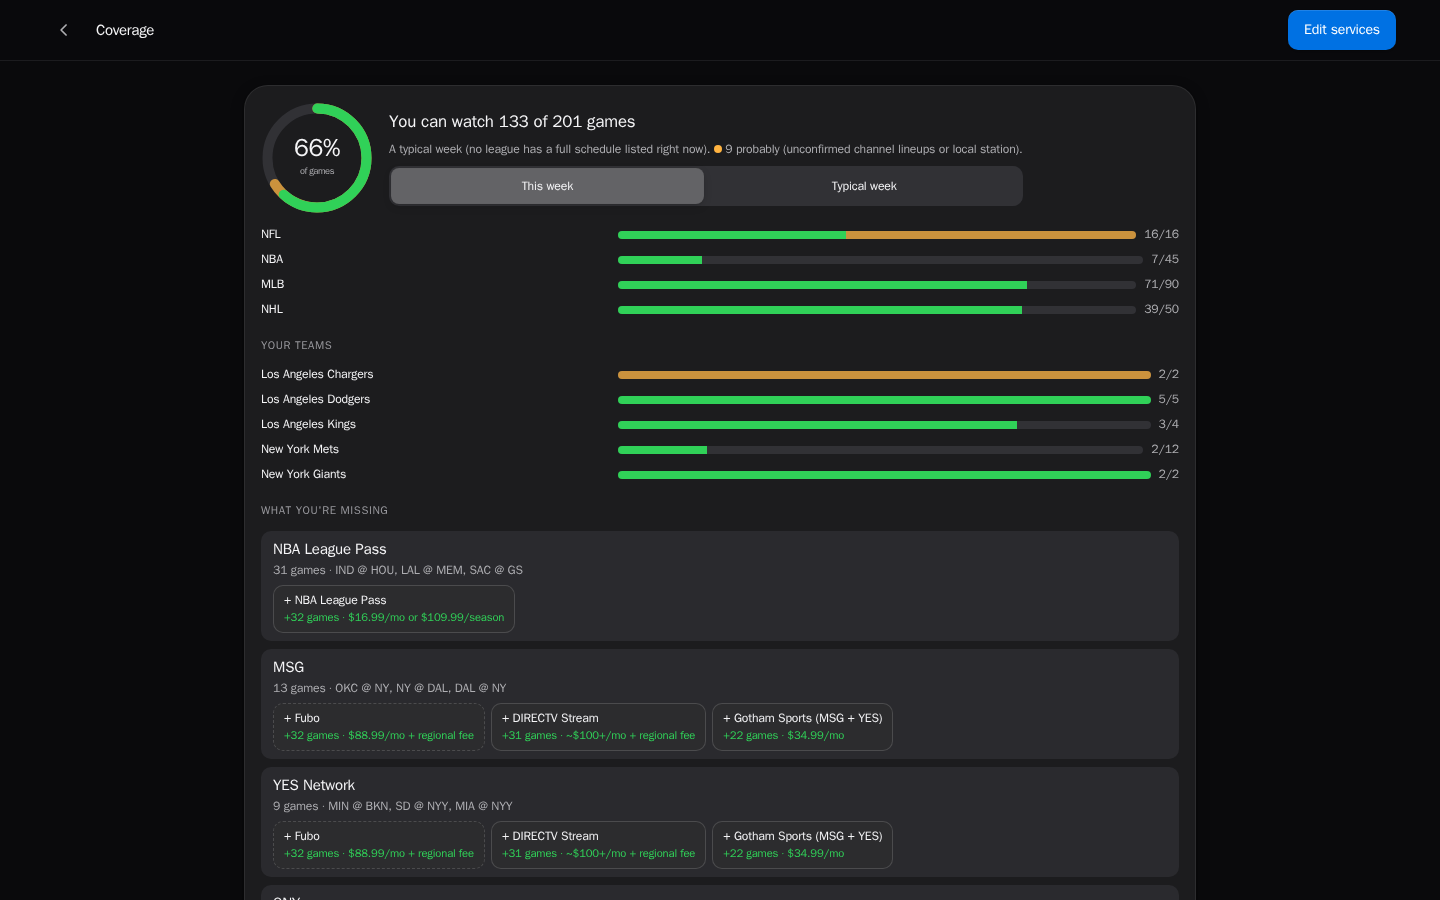
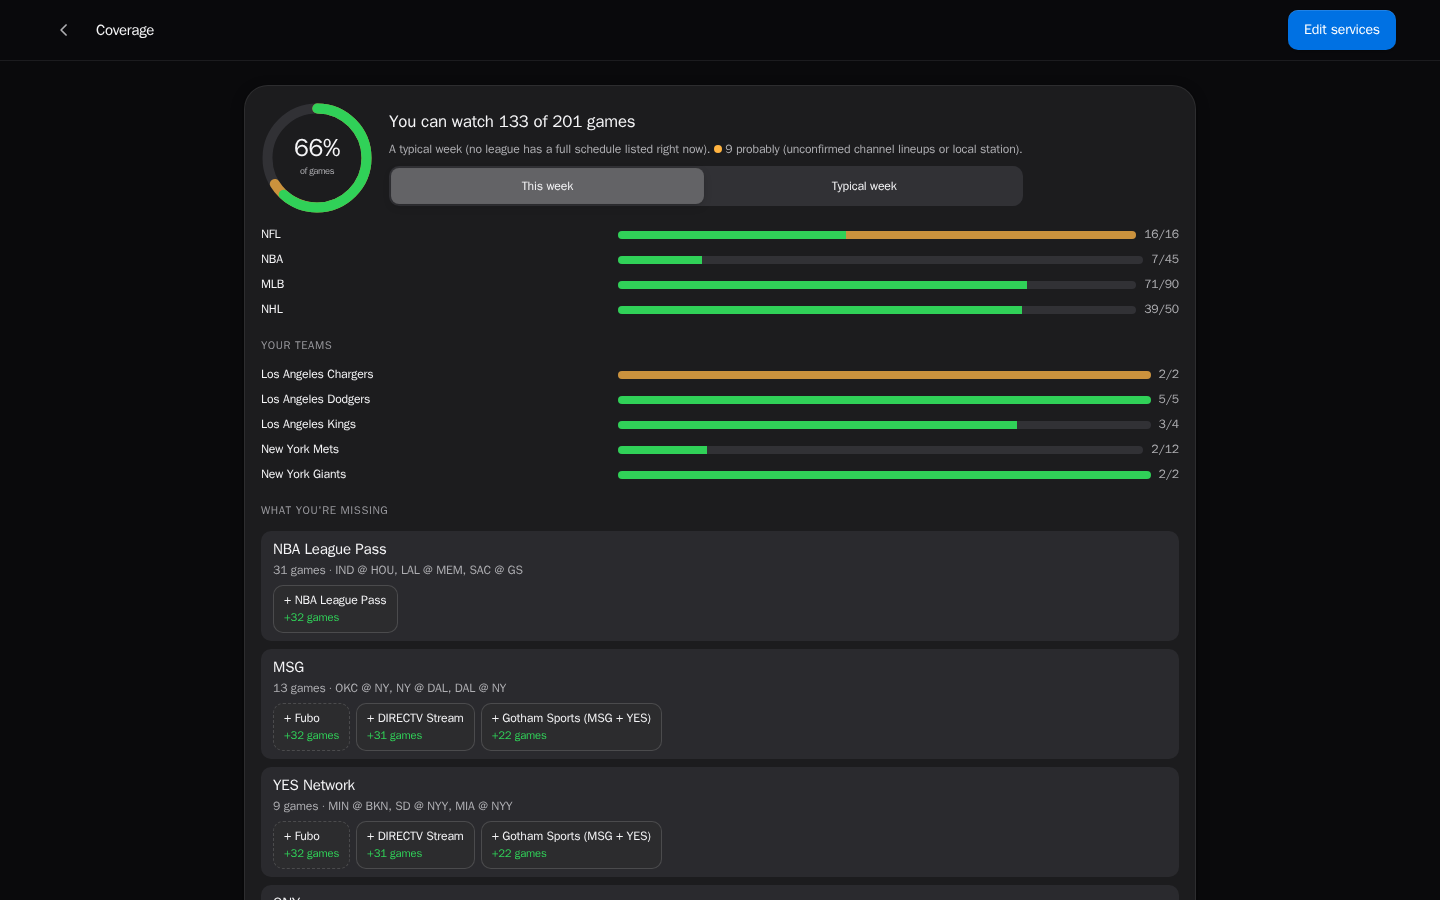
Release 0.2.0: fresh screenshots, badges, code of conduct
Screenshots retaken against a fake TV that reports real installed apps.

Changed region(s): [[0.25, 0.7778, 0.625, 0.84], [0.25, 0.9022, 0.625, 0.9644], [0.25, 0.6844, 0.3438, 0.7156]]

diff --git a/web/setup/Setup.tsx b/web/setup/Setup.tsx
@@ -21,7 +21,7 @@ const STEPS: { id: StepId; title: string; lead: string }[] = [
   { id: "teams", title: "Your teams", lead: "Favorites go first, and you'll see how many of their games you can watch." },
   { id: "services", title: "Your services", lead: "Tick what you pay for. Coverage updates as you go, and shows what each service would add." },
   { id: "local", title: "Local teams", lead: "How you watch your local teams' games, which aren't on national TV." },
-  { id: "tvs", title: "Your TVs", lead: "Connect the Fire TV or Google TV this server will control." },
+  { id: "tvs", title: "Your TVs", lead: "Connect the TVs this server will control: Fire TV, Google TV or another Android TV." },
   { id: "extras", title: "Extras", lead: "Optional: Plex Live TV for antenna households, and ESPN game links." },
   { id: "done", title: "Done", lead: "Here's what you can watch." },
 ];

diff --git a/lib/catalog/subscriptions.ts b/lib/catalog/subscriptions.ts
@@ -110,7 +110,7 @@ export const SUBSCRIPTIONS: SubscriptionDef[] = [
     addOns: [{ id: "sports_extra", name: "Sports Extra", grants: ["espnu", "secn", "accn", "fs2", "btn", "nbatv", "mlbnet", "nhlnet"], maybe: ["nfl_redzone"] }],
     apps: ["sling"],
     unlocks: [{ subscription: "espn", tier: "unlimited", app: "espn", maybeOnly: true }],
-    blurb: "Cheapest way to ESPN and TNT. No CBS anywhere, and ABC/FOX/NBC only in some markets.",
+    blurb: "ESPN and TNT without a full cable-style bundle. No CBS anywhere, and ABC/FOX/NBC only in some markets.",
     confidence: "medium",
   },
   {

diff --git a/server/app.ts b/server/app.ts
@@ -23,7 +23,7 @@ import { lanPrefixes, scanForAdb } from "./tv/discovery";
 import { browseAdb } from "./tv/mdns";
 import { APPS } from "../lib/catalog/apps";
 
-export const VERSION = "0.2.0-dev";
+export const VERSION = "0.2.0";
 
 export interface Integrations {
   /** Re-read Plex/ESPN settings after they change. */

diff --git a/README.md b/README.md
@@ -1,5 +1,10 @@
 # Sports Remote
 
+[![CI](https://github.com/jwizenfeld04/Sports-Remote/actions/workflows/ci.yml/badge.svg)](https://github.com/jwizenfeld04/Sports-Remote/actions/workflows/ci.yml)
+[![CodeQL](https://github.com/jwizenfeld04/Sports-Remote/actions/workflows/codeql.yml/badge.svg)](https://github.com/jwizenfeld04/Sports-Remote/actions/workflows/codeql.yml)
+[![Release](https://img.shields.io/github/v/release/jwizenfeld04/Sports-Remote)](https://github.com/jwizenfeld04/Sports-Remote/releases)
+[![License: MIT](https://img.shields.io/badge/license-MIT-blue.svg)](LICENSE)
+
 **Find the game, see if you can watch it, and put it on your TV from your phone.**
 
 Sports Remote shows every live and upcoming NFL, NBA, MLB and NHL game. For each one it tells you whether your TV services carry it where you live. One tap opens the game on your Fire TV or Google TV in the right app.
@@ -110,7 +115,7 @@ The tests use a fake `adb` and a simulated TV, so you can work on everything, in
 
 ## Contributing and security
 
-Bug reports, service and rights corrections, and pull requests are welcome. See [CONTRIBUTING.md](CONTRIBUTING.md). Please report security issues privately, as described in [SECURITY.md](SECURITY.md).
+Bug reports, service and rights corrections, and pull requests are welcome. See [CONTRIBUTING.md](CONTRIBUTING.md) and the [code of conduct](CODE_OF_CONDUCT.md). Please report security issues privately, as described in [SECURITY.md](SECURITY.md).
 
 ## License
 

diff --git a/CHANGELOG.md b/CHANGELOG.md
@@ -5,7 +5,9 @@ The format is based on [Keep a Changelog](https://keepachangelog.com/en/1.1.0/),
 
 ## [Unreleased]
 
-The 0.2 line turns a single-household tool into a general open-source app. See [docs/ARCHITECTURE.md](docs/ARCHITECTURE.md). Work in progress:
+## [0.2.0] - 2026-10-25
+
+The first public release. The 0.2 line turns a single-household tool into a general open-source app. See [docs/ARCHITECTURE.md](docs/ARCHITECTURE.md).
 
 ### Added
 
@@ -53,3 +55,6 @@ The 0.2 line turns a single-household tool into a general open-source app. See [
 - First version, for one household: Fire TV over ADB; NFL, MLB and NHL from ESPN; YouTube TV, Plex, Prime Video and other services; Tailscale or passcode access; systemd install.
 
 [Unreleased]: https://github.com/jwizenfeld04/Sports-Remote/commits/main
+
+[Unreleased]: https://github.com/jwizenfeld04/Sports-Remote/compare/v0.2.0...HEAD
+[0.2.0]: https://github.com/jwizenfeld04/Sports-Remote/releases/tag/v0.2.0

diff --git a/CODE_OF_CONDUCT.md b/CODE_OF_CONDUCT.md
@@ -1,0 +1,7 @@
+# Code of conduct
+
+This project follows the [Contributor Covenant, version 2.1](https://www.contributor-covenant.org/version/2/1/code_of_conduct/).
+
+In short: be kind and constructive, assume good faith, and keep discussion about the project. Harassment, insults and personal attacks aren't acceptable in issues, pull requests or anywhere else the project lives.
+
+To report a problem, open a [private security advisory](https://github.com/jwizenfeld04/Sports-Remote/security/advisories/new) (it reaches the maintainer privately, and works for conduct reports too), or contact the maintainer through their GitHub profile. Reports are kept confidential.

diff --git a/docs/tv-setup.md b/docs/tv-setup.md
@@ -8,6 +8,8 @@ Sports Remote controls your TV over **ADB**, the debugging connection built into
 - [Devices that can't be used](#devices-that-cant-be-used)
 - [Troubleshooting](#troubleshooting)
 
+![Adding a TV in the setup wizard](images/setup-tvs.png)
+
 Before you start, give the TV a fixed address: in your router's settings, reserve its current IP address (often called a "DHCP reservation"). Otherwise the address can change and Sports Remote loses the TV.
 
 ## Fire TV
